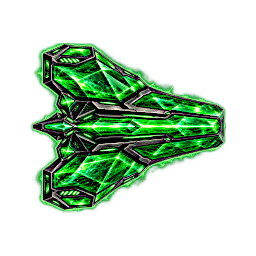
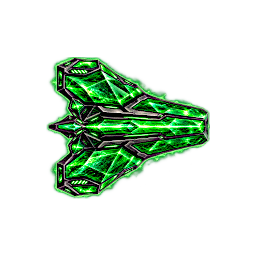
Triad image updates

Changed region(s): [[0.125, 0.1562, 0.9062, 0.8438]]

diff --git a/source/server/model/ships/triad/triadLesserTriumviron.php b/source/server/model/ships/triad/triadLesserTriumviron.php
@@ -8,7 +8,7 @@ class triadLesserTriumviron extends BaseShip{
 		$this->faction = "The Triad";
         $this->phpclass = "triadLesserTriumviron";
         $this->shipClass = "Unified: Lesser Triumviron";
-        $this->imagePath = "img/ships/triadTriumviron.png";
+        $this->imagePath = "img/ships/triadLesserTriumviron.png";
         $this->canvasSize = 200;
 	    $this->isd = 'Ancient';
         $this->shipSizeClass = 3; 
